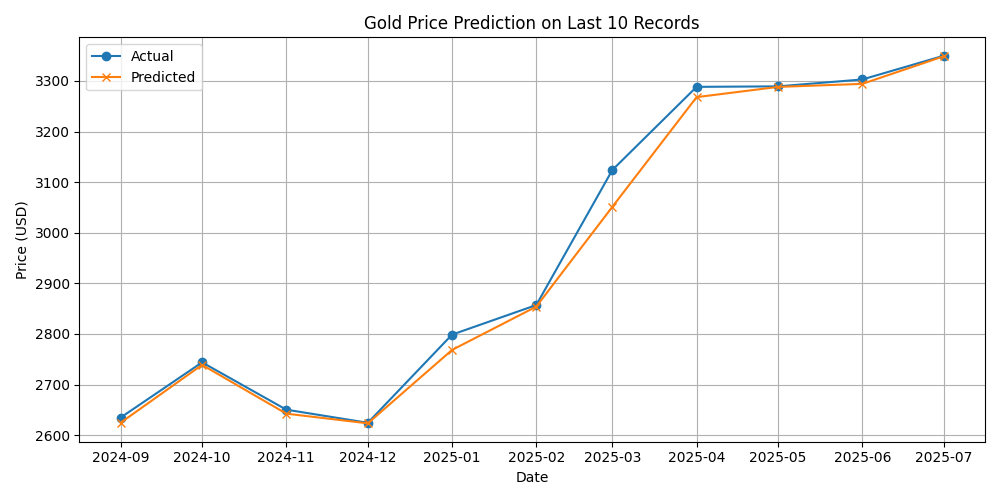
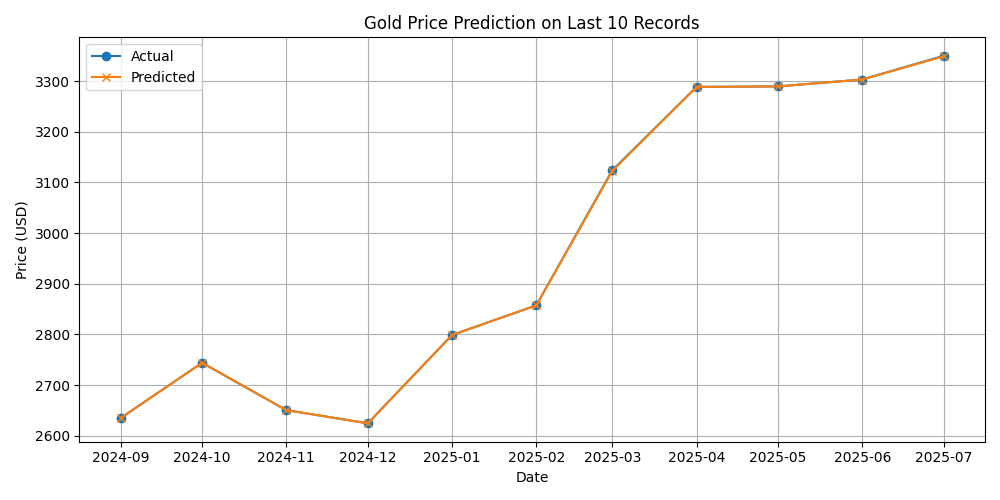
XGBoost done

diff --git a/code/Final_model_with_XGboost/dataM/predict_single_month.py b/code/Final_model_with_XGboost/dataM/predict_single_month.py
@@ -1,0 +1,113 @@
+import pandas as pd
+import numpy as np
+from xgboost import XGBRegressor
+from sklearn.metrics import mean_absolute_error, mean_squared_error, r2_score
+# ----------------------------
+# Load training and test data
+# ----------------------------
+train_df = pd.read_csv("train.csv")          # 69 rows with price
+test_df = pd.read_csv("test_single.csv")        # 1 row with future price (for evaluation)
+
+train_df['date'] = pd.to_datetime(train_df['date'])
+test_df['date'] = pd.to_datetime(test_df['date'])
+
+# ----------------------------
+# Extract last known row
+# ----------------------------
+last_row = train_df.iloc[-1]
+
+# Month/year features
+train_df['month'] = train_df['date'].dt.month
+train_df['year'] = train_df['date'].dt.year
+test_df['month'] = test_df['date'].dt.month
+test_df['year'] = test_df['date'].dt.year
+
+# ----------------------------
+# Lag/change features for training
+# ----------------------------
+for col in ['price', 'CPI', 'GDP', 'I_R', 'NFP', 'PCE', 'PPI']:
+    train_df[f'{col}_lag_1'] = train_df[col].shift(1)
+    train_df[f'{col}_change'] = train_df[col] - train_df[f'{col}_lag_1']
+train_df['price_change'] = train_df['price'] - train_df['price_lag_1']
+train_df.dropna(inplace=True)
+train_df.reset_index(drop=True, inplace=True)
+
+# ----------------------------
+# Lag/change for test row (using last_row from train)
+# ----------------------------
+test_df['price_lag_1'] = last_row['price']
+for col in ['CPI', 'GDP', 'I_R', 'NFP', 'PCE', 'PPI']:
+    test_df[f'{col}_lag_1'] = last_row[col]
+    test_df[f'{col}_change'] = test_df[col] - last_row[col]
+
+# ----------------------------
+# Feature Selection
+# ----------------------------
+feature_cols = [
+    col for col in train_df.columns
+    if '_change' in col and col != 'price_change'
+    or col in ['month', 'year']
+]
+X_train = train_df[feature_cols]
+y_train = train_df['price_change']
+X_test = test_df[feature_cols]
+
+# ----------------------------
+# Predict
+# ----------------------------
+model = XGBRegressor(n_estimators=100, learning_rate=0.1, random_state=42)
+model.fit(X_train, y_train)
+
+predicted_change = model.predict(X_test)[0]
+price_lag_1 = test_df['price_lag_1'].values[0]
+predicted_price = price_lag_1 + predicted_change
+
+# ----------------------------
+# Evaluation
+# ----------------------------
+actual_price = test_df['price'].values[0]
+actual_change = actual_price - price_lag_1
+abs_error = abs(actual_price - predicted_price)
+accuracy = 100 - (abs_error / actual_price * 100)
+
+# ----------------------------
+# Output
+# ----------------------------
+print(f"📅 Forecast Date       : {test_df['date'].iloc[0].strftime('%Y-%m-%d')}")
+print(f"Last Known Price      : {price_lag_1:.2f}")
+print(f"Predicted Price       : {predicted_price:.2f}")
+print(f"Predicted Change      : {predicted_change:.2f}")
+print(f"📌 Actual Price        : {actual_price:.2f}")
+print(f"📌 Actual Price Change : {actual_change:.2f}")
+print(f"🎯 Accuracy            : {accuracy:.2f}%")
+
+# ----------------------------
+actual_price = test_df['price'].values[0]
+actual_change = actual_price - price_lag_1
+abs_error = abs(actual_price - predicted_price)
+accuracy = 100 - (abs_error / actual_price * 100)
+
+# Directional Accuracy
+direction_correct = np.sign(predicted_change) == np.sign(actual_change)
+directional_accuracy = 100.0 if direction_correct else 0.0
+print(f"📊 Directional Accuracy: {directional_accuracy:.2f}%")
+
+# ----------------------------
+# Save forecast to log file
+# ----------------------------
+log_line = (
+    f"\n📅 Forecast Date       : {test_df['date'].iloc[0].strftime('%Y-%m-%d')}\n"
+    f"Last Known Price      : {price_lag_1:.2f}\n"
+    f"Predicted Price       : {predicted_price:.2f}\n"
+    f"Predicted Change      : {predicted_change:.2f}\n"
+    f"📌 Actual Price        : {actual_price:.2f}\n"
+    f"📌 Actual Price Change : {actual_change:.2f}\n"
+    f"🎯 Accuracy            : {accuracy:.2f}%\n"
+    f"📊 Directional Accuracy: {directional_accuracy:.2f}%\n"
+    f"{'-'*50}\n"
+)
+
+
+# ✅ Fix: use UTF-8 to support emojis
+with open("forecast_log.txt", "a", encoding="utf-8") as f:
+    f.write(log_line)

diff --git a/code/Final_model_with_XGboost/dataM/predict_last_10.py b/code/Final_model_with_XGboost/dataM/predict_last_10.py
@@ -63,10 +63,18 @@ r2 = r2_score(y_test, predicted_price)
 mape = mean_absolute_percentage_error(y_test, predicted_price) * 100
 accuracy = 100 - mape
 
+# Directional Accuracy
+correct_direction = np.sum(
+    (np.diff(y_test.values) > 0) == (np.diff(predicted_price) > 0)
+)
+directional_accuracy = correct_direction / (len(y_test) - 1)
+
+# Print metrics
 print(f"MAE: {mae:.2f}")
 print(f"RMSE: {rmse:.2f}")
 print(f"R² Score: {r2:.4f}")
 print(f"MAPE: {mape:.2f}% → Accuracy: {accuracy:.2f}%")
+print(f"Directional Accuracy: {directional_accuracy:.2%}")
 
 # ----------------------------
 # Save predictions and plot
